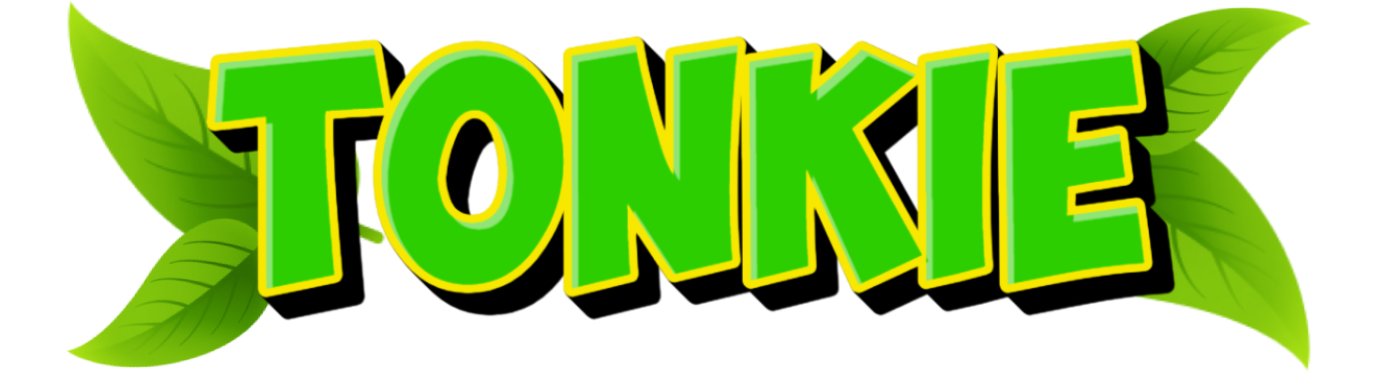
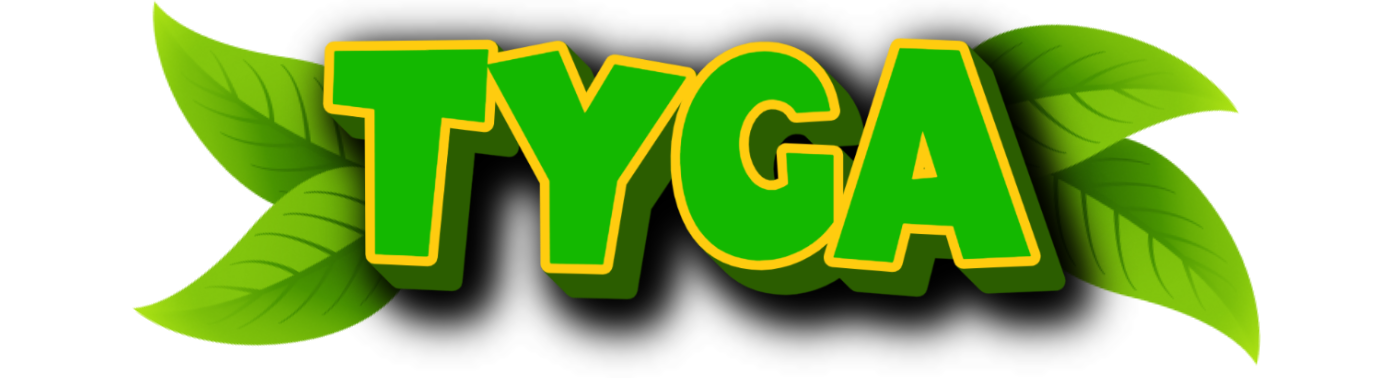
1

diff --git a/index.html b/index.html
@@ -1,10 +1,10 @@
-<!DOCTYPE html><!-- This site was created in Webflow. https://webflow.com --><!-- Last Published: Mon Oct 21 2024 19:35:50 GMT+0000 (Coordinated Universal Time) --><html data-wf-domain="www.tonkeonsol.com" data-wf-page="67128392ef8c413a4ef1b844" data-wf-site="67128392ef8c413a4ef1b76d"><head><meta charset="utf-8"/><title>TONKIE</title><meta content="width=device-width, initial-scale=1" name="viewport"/><meta content="Webflow" name="generator"/><link href="./cdn.prod.website-files.com/67128392ef8c413a4ef1b76d/css/tonke.webflow.ebf8300d1.css" rel="stylesheet" type="text/css"/><link href="https://fonts.googleapis.com" rel="preconnect"/><link href="https://fonts.gstatic.com" rel="preconnect" crossorigin="anonymous"/><script src="https://ajax.googleapis.com/ajax/libs/webfont/1.6.26/webfont.js" type="text/javascript"></script><script type="text/javascript">WebFont.load({  google: {    families: ["Montserrat:100,100italic,200,200italic,300,300italic,400,400italic,500,500italic,600,600italic,700,700italic,800,800italic,900,900italic"]  }});</script><script type="text/javascript">!function(o,c){var n=c.documentElement,t=" w-mod-";n.className+=t+"js",("ontouchstart"in o||o.DocumentTouch&&c instanceof DocumentTouch)&&(n.className+=t+"touch")}(window,document);</script><link href="./cdn.prod.website-files.com/67128392ef8c413a4ef1b76d/6712abf060771e511181c04e_pp%2032.png" rel="shortcut icon" type="image/x-icon"/><link href="./cdn.prod.website-files.com/67128392ef8c413a4ef1b76d/6712abf347a508f72a8bac3a_PP%20256.png" rel="apple-touch-icon"/></head><body class="body"><div class="waiting-screen"><div class="w-embed w-script"><!-- Google Tag Manager -->
+<!DOCTYPE html><!-- This site was created in Webflow. https://webflow.com --><!-- Last Published: Mon Oct 21 2024 19:35:50 GMT+0000 (Coordinated Universal Time) --><html data-wf-domain="www.tonkeonsol.com" data-wf-page="67128392ef8c413a4ef1b844" data-wf-site="67128392ef8c413a4ef1b76d"><head><meta charset="utf-8"/><title>TYGA</title><meta content="width=device-width, initial-scale=1" name="viewport"/><meta content="Webflow" name="generator"/><link href="./cdn.prod.website-files.com/67128392ef8c413a4ef1b76d/css/tonke.webflow.ebf8300d1.css" rel="stylesheet" type="text/css"/><link href="https://fonts.googleapis.com" rel="preconnect"/><link href="https://fonts.gstatic.com" rel="preconnect" crossorigin="anonymous"/><script src="https://ajax.googleapis.com/ajax/libs/webfont/1.6.26/webfont.js" type="text/javascript"></script><script type="text/javascript">WebFont.load({  google: {    families: ["Montserrat:100,100italic,200,200italic,300,300italic,400,400italic,500,500italic,600,600italic,700,700italic,800,800italic,900,900italic"]  }});</script><script type="text/javascript">!function(o,c){var n=c.documentElement,t=" w-mod-";n.className+=t+"js",("ontouchstart"in o||o.DocumentTouch&&c instanceof DocumentTouch)&&(n.className+=t+"touch")}(window,document);</script><link href="./cdn.prod.website-files.com/67128392ef8c413a4ef1b76d/6712abf060771e511181c04e_pp%2032.png" rel="shortcut icon" type="image/x-icon"/><link href="./cdn.prod.website-files.com/67128392ef8c413a4ef1b76d/6712abf347a508f72a8bac3a_PP%20256.png" rel="apple-touch-icon"/></head><body class="body"><div class="waiting-screen"><div class="w-embed w-script"><!-- Google Tag Manager -->
 <script>(function(w,d,s,l,i){w[l]=w[l]||[];w[l].push({'gtm.start':
 new Date().getTime(),event:'gtm.js'});var f=d.getElementsByTagName(s)[0],
 j=d.createElement(s),dl=l!='dataLayer'?'&l='+l:'';j.async=true;j.src=
 'https://www.googletagmanager.com/gtm.js?id='+i+dl;f.parentNode.insertBefore(j,f);
 })(window,document,'script','dataLayer','GTM-58B744DV');</script>
-<!-- End Google Tag Manager --></div><img src="./cdn.prod.website-files.com/67128392ef8c413a4ef1b76d/67128dde0ad5a9be48e4c517_Group.png" loading="lazy" sizes="100vw" srcset="./cdn.prod.website-files.com/67128392ef8c413a4ef1b76d/67128dde0ad5a9be48e4c517_Group-p-500.png 500w, ./cdn.prod.website-files.com/67128392ef8c413a4ef1b76d/67128dde0ad5a9be48e4c517_Group-p-800.png 800w, ./cdn.prod.website-files.com/67128392ef8c413a4ef1b76d/67128dde0ad5a9be48e4c517_Group-p-1080.png 1080w, ./cdn.prod.website-files.com/67128392ef8c413a4ef1b76d/67128dde0ad5a9be48e4c517_Group.png 1558w" alt="" class="image"/></div><section class="header"><div class="bg1"><div class="header_wrapper"><img src="./cdn.prod.website-files.com/67128392ef8c413a4ef1b76d/6712b9009a8c00e3f39acca3_Group-1.png" loading="lazy" sizes="100vw"  alt="website logo of TONKIE" class="tonke"/><div class="spacer_header"></div><div class="content_header"><div class="columns-2 w-row"><div class="column-3 w-col w-col-4 w-col-small-4 w-col-tiny-4"><a data-w-id="741809d0-b635-7096-3bc5-0bb581f58a18" href="https://x.com/tonkieclub" target="_blank" class="sm w-inline-block"><img loading="lazy" src="./cdn.prod.website-files.com/67128392ef8c413a4ef1b76d/6713a4ea562ebcbc3bb6f182_tg.png" alt="telegram of tonke" class="jeton_rs"/></a></div><div class="column-3 w-col w-col-4 w-col-small-4 w-col-tiny-4"><a data-w-id="741809d0-b635-7096-3bc5-0bb581f58a1b" href="https://pump.fun/iV7YmyaNFcPMD1P73oPAh9HrXt2wm2By4AoKuuMpump" target="_blank" class="sm w-inline-block"><img loading="lazy" src="./cdn.prod.website-files.com/67128392ef8c413a4ef1b76d/6713a4eac877c6b4521e17d2_dex.png" alt="dexscreen of tonke" class="jeton_rs"/></a></div><div class="column-3 w-col w-col-4 w-col-small-4 w-col-tiny-4"><a data-w-id="741809d0-b635-7096-3bc5-0bb581f58a1e" href="https://t.me/tonkieclub" target="_blank" class="sm w-inline-block"><img loading="lazy" src="./cdn.prod.website-files.com/67128392ef8c413a4ef1b76d/6713a4ea328c0c99c5d10f2e_X.png" alt="X of tonke" class="jeton_rs"/></a></div></div></div></div><div class="div-block"><div class="columns w-row"><div class="column w-col w-col-7"><img src="./cdn.prod.website-files.com/67128392ef8c413a4ef1b76d/6712b9003b32411f2f953f42_Rectangle.png" loading="lazy" sizes="100vw" srcset="./cdn.prod.website-files.com/67128392ef8c413a4ef1b76d/6712b9003b32411f2f953f42_Rectangle-p-500.png 500w, ./cdn.prod.website-files.com/67128392ef8c413a4ef1b76d/6712b9003b32411f2f953f42_Rectangle-p-800.png 800w, ./cdn.prod.website-files.com/67128392ef8c413a4ef1b76d/6712b9003b32411f2f953f42_Rectangle-p-1080.png 1080w, ./cdn.prod.website-files.com/67128392ef8c413a4ef1b76d/6712b9003b32411f2f953f42_Rectangle.png 1280w" alt="" class="image-2"/></div><div class="column-2 w-col w-col-5"><div class="whostonk"><h1 class="titre_white">WHO&#x27;S TONKIE</h1><p class="text_white">Meet $TONKIE, the fearless jungle cat who is a warrior from the heart! Known for his legendary boxing skills and quick paws, $TONKIE is boxing coach of the BOY&#x27;S CLUB. With a wild mane and a fiery attitude, he&#x27;s always ready to throw down and protect his memecoin. $TONKIE may have a short fuse, but he’s got big plans to punch through the peaks of Solana! Come join $TONKIE as he claws his way to the top of the Solana chain, one fierce green swipe at a time!</p></div><div class="spacer_whostonke"></div></div></div></div></div></section><section class="header_v2"><div class="div-block-3"><div class="header_wrapper"><a href="#" class="link-block w-inline-block"><img src="./cdn.prod.website-files.com/67128392ef8c413a4ef1b76d/6712b9009a8c00e3f39acca3_Group-1.png" loading="lazy" data-w-id="52d00584-be5c-c584-a831-a4f491bdb8b1" sizes="70vw" alt="website logo of TONKIE"  class="tonke"/></a><div class="spacer_header"><p class="text_white-2 ca">CA : iV7YmyaNFcPMD1P73oPAh9HrXt2wm2By4AoKuuMpump</p></div><div class="content_header"><div class="columns-2 w-row"><div class="column-3 w-col w-col-4 w-col-small-4 w-col-tiny-4"><a data-w-id="52d00584-be5c-c584-a831-a4f491bdb8b6" href="https://t.me/tonkieclub" target="_blank" class="sm w-inline-block"><img loading="lazy" src="./cdn.prod.website-files.com/67128392ef8c413a4ef1b76d/6713a4ea562ebcbc3bb6f182_tg.png" alt="telegram of tonke" class="jeton_rs"/></a></div><div class="column-3 w-col w-col-4 w-col-small-4 w-col-tiny-4"><a data-w-id="52d00584-be5c-c584-a831-a4f491bdb8b9" href="https://pump.fun/iV7YmyaNFcPMD1P73oPAh9HrXt2wm2By4AoKuuMpump" target="_blank" class="sm w-inline-block"><img loading="lazy" src="./cdn.prod.website-files.com/67128392ef8c413a4ef1b76d/6713a4eac877c6b4521e17d2_dex.png" alt="dexscreen of tonke" class="jeton_rs"/></a></div><div class="column-3 w-col w-col-4 w-col-small-4 w-col-tiny-4"><a data-w-id="52d00584-be5c-c584-a831-a4f491bdb8bc" href="https://x.com/tonkieclub" target="_blank" class="sm w-inline-block"><img loading="lazy" src="./cdn.prod.website-files.com/67128392ef8c413a4ef1b76d/6713a4ea328c0c99c5d10f2e_X.png" alt="X of tonke" class="jeton_rs"/></a></div></div></div><div class="code-embed w-embed"><style>
+<!-- End Google Tag Manager --></div><img src="./cdn.prod.website-files.com/67128392ef8c413a4ef1b76d/67128dde0ad5a9be48e4c517_Group.png" loading="lazy" sizes="100vw" srcset="./cdn.prod.website-files.com/67128392ef8c413a4ef1b76d/67128dde0ad5a9be48e4c517_Group-p-500.png 500w, ./cdn.prod.website-files.com/67128392ef8c413a4ef1b76d/67128dde0ad5a9be48e4c517_Group-p-800.png 800w, ./cdn.prod.website-files.com/67128392ef8c413a4ef1b76d/67128dde0ad5a9be48e4c517_Group-p-1080.png 1080w, ./cdn.prod.website-files.com/67128392ef8c413a4ef1b76d/67128dde0ad5a9be48e4c517_Group.png 1558w" alt="" class="image"/></div><section class="header"><div class="bg1"><div class="header_wrapper"><img src="./cdn.prod.website-files.com/67128392ef8c413a4ef1b76d/6712b9009a8c00e3f39acca3_Group-1.png" loading="lazy" sizes="100vw"  alt="website logo of TYGA" class="tonke"/><div class="spacer_header"></div><div class="content_header"><div class="columns-2 w-row"><div class="column-3 w-col w-col-4 w-col-small-4 w-col-tiny-4"><a data-w-id="741809d0-b635-7096-3bc5-0bb581f58a18" href="https://x.com/tygaclub" target="_blank" class="sm w-inline-block"><img loading="lazy" src="./cdn.prod.website-files.com/67128392ef8c413a4ef1b76d/6713a4ea562ebcbc3bb6f182_tg.png" alt="telegram of tonke" class="jeton_rs"/></a></div><div class="column-3 w-col w-col-4 w-col-small-4 w-col-tiny-4"><a data-w-id="741809d0-b635-7096-3bc5-0bb581f58a1b" href="https://pump.fun/xKvF1hN8GYvDAkmWdpCbLnghYJXXWp7P39xQN5epump" target="_blank" class="sm w-inline-block"><img loading="lazy" src="./cdn.prod.website-files.com/67128392ef8c413a4ef1b76d/6713a4eac877c6b4521e17d2_dex.png" alt="dexscreen of tonke" class="jeton_rs"/></a></div><div class="column-3 w-col w-col-4 w-col-small-4 w-col-tiny-4"><a data-w-id="741809d0-b635-7096-3bc5-0bb581f58a1e" href="https://t.me/tygaclub" target="_blank" class="sm w-inline-block"><img loading="lazy" src="./cdn.prod.website-files.com/67128392ef8c413a4ef1b76d/6713a4ea328c0c99c5d10f2e_X.png" alt="X of tonke" class="jeton_rs"/></a></div></div></div></div><div class="div-block"><div class="columns w-row"><div class="column w-col w-col-7"><img src="./cdn.prod.website-files.com/67128392ef8c413a4ef1b76d/6712b9003b32411f2f953f42_Rectangle.png" loading="lazy" sizes="100vw" srcset="./cdn.prod.website-files.com/67128392ef8c413a4ef1b76d/6712b9003b32411f2f953f42_Rectangle-p-500.png 500w, ./cdn.prod.website-files.com/67128392ef8c413a4ef1b76d/6712b9003b32411f2f953f42_Rectangle-p-800.png 800w, ./cdn.prod.website-files.com/67128392ef8c413a4ef1b76d/6712b9003b32411f2f953f42_Rectangle-p-1080.png 1080w, ./cdn.prod.website-files.com/67128392ef8c413a4ef1b76d/6712b9003b32411f2f953f42_Rectangle.png 1280w" alt="" class="image-2"/></div><div class="column-2 w-col w-col-5"><div class="whostonk"><h1 class="titre_white">WHO&#x27;S TYGA</h1><p class="text_white">Meet $TYGA, the fearless jungle cat who is a warrior from the heart! Known for his legendary boxing skills and quick paws, $TYGA is boxing coach of the BOY&#x27;S CLUB. With a wild mane and a fiery attitude, he&#x27;s always ready to throw down and protect his memecoin. $TYGA may have a short fuse, but he’s got big plans to punch through the peaks of Solana! Come join $TYGA as he claws his way to the top of the Solana chain, one fierce green swipe at a time!</p></div><div class="spacer_whostonke"></div></div></div></div></div></section><section class="header_v2"><div class="div-block-3"><div class="header_wrapper"><a href="#" class="link-block w-inline-block"><img src="./cdn.prod.website-files.com/67128392ef8c413a4ef1b76d/6712b9009a8c00e3f39acca3_Group-1.png" loading="lazy" data-w-id="52d00584-be5c-c584-a831-a4f491bdb8b1" sizes="70vw" alt="website logo of TYGA"  class="tonke"/></a><div class="spacer_header"><p class="text_white-2 ca">CA : xKvF1hN8GYvDAkmWdpCbLnghYJXXWp7P39xQN5epump</p></div><div class="content_header"><div class="columns-2 w-row"><div class="column-3 w-col w-col-4 w-col-small-4 w-col-tiny-4"><a data-w-id="52d00584-be5c-c584-a831-a4f491bdb8b6" href="https://t.me/tygaclub" target="_blank" class="sm w-inline-block"><img loading="lazy" src="./cdn.prod.website-files.com/67128392ef8c413a4ef1b76d/6713a4ea562ebcbc3bb6f182_tg.png" alt="telegram of tonke" class="jeton_rs"/></a></div><div class="column-3 w-col w-col-4 w-col-small-4 w-col-tiny-4"><a data-w-id="52d00584-be5c-c584-a831-a4f491bdb8b9" href="https://pump.fun/xKvF1hN8GYvDAkmWdpCbLnghYJXXWp7P39xQN5epump" target="_blank" class="sm w-inline-block"><img loading="lazy" src="./cdn.prod.website-files.com/67128392ef8c413a4ef1b76d/6713a4eac877c6b4521e17d2_dex.png" alt="dexscreen of tonke" class="jeton_rs"/></a></div><div class="column-3 w-col w-col-4 w-col-small-4 w-col-tiny-4"><a data-w-id="52d00584-be5c-c584-a831-a4f491bdb8bc" href="https://x.com/tygaclub" target="_blank" class="sm w-inline-block"><img loading="lazy" src="./cdn.prod.website-files.com/67128392ef8c413a4ef1b76d/6713a4ea328c0c99c5d10f2e_X.png" alt="X of tonke" class="jeton_rs"/></a></div></div></div><div class="code-embed w-embed"><style>
 <style>
 .SM { 
     position: relative;
@@ -58,7 +58,7 @@ j=d.createElement(s),dl=l!='dataLayer'?'&l='+l:'';j.async=true;j.src=
 .SM:hover::after {
     transform: translate(200px, -50%); /* Feuille part vers la droite */
 }
-</style></div></div></div></section><section class="rbc"><div class="bg2"><div class="wrapper_rbc"><img src="./cdn.prod.website-files.com/67128392ef8c413a4ef1b76d/6712b900a202e4efa25d8fda_real%20boyz%20club.png" loading="lazy" sizes="100vw" srcset="./cdn.prod.website-files.com/67128392ef8c413a4ef1b76d/6712b900a202e4efa25d8fda_real%20boyz%20club-p-500.png 500w, ./cdn.prod.website-files.com/67128392ef8c413a4ef1b76d/6712b900a202e4efa25d8fda_real%20boyz%20club-p-800.png 800w, ./cdn.prod.website-files.com/67128392ef8c413a4ef1b76d/6712b900a202e4efa25d8fda_real%20boyz%20club-p-1080.png 1080w, ./cdn.prod.website-files.com/67128392ef8c413a4ef1b76d/6712b900a202e4efa25d8fda_real%20boyz%20club-p-1600.png 1600w, ./cdn.prod.website-files.com/67128392ef8c413a4ef1b76d/6712b900a202e4efa25d8fda_real%20boyz%20club-p-2000.png 2000w, ./cdn.prod.website-files.com/67128392ef8c413a4ef1b76d/6712b900a202e4efa25d8fda_real%20boyz%20club.png 2184w" alt="" class="rbc_title"/><img src="./cdn.prod.website-files.com/67128392ef8c413a4ef1b76d/6712b9000797b645d004740e_Rectangle-4.png" loading="lazy" sizes="100vw" srcset="./cdn.prod.website-files.com/67128392ef8c413a4ef1b76d/6712b9000797b645d004740e_Rectangle-4-p-500.png 500w, ./cdn.prod.website-files.com/67128392ef8c413a4ef1b76d/6712b9000797b645d004740e_Rectangle-4-p-800.png 800w, ./cdn.prod.website-files.com/67128392ef8c413a4ef1b76d/6712b9000797b645d004740e_Rectangle-4-p-1080.png 1080w, ./cdn.prod.website-files.com/67128392ef8c413a4ef1b76d/6712b9000797b645d004740e_Rectangle-4.png 1592w" alt="" class="image-3"/></div></div></section><section class="roadmap"><div class="bg2 bg3"><div class="wrapper_roadmap"><div class="div-block-2"><div class="columns-3 w-row"><div class="column-4 w-col w-col-6 w-col-medium-6 w-col-small-6 w-col-tiny-tiny-stack"><div data-delay="4000" data-animation="slide" class="slider-2 w-slider" data-autoplay="false" data-easing="ease" data-hide-arrows="true" data-disable-swipe="false" data-autoplay-limit="0" data-nav-spacing="200" data-duration="500" data-infinite="false"><div class="mask-2 w-slider-mask"><div class="slide-2 w-slide"><div class="slider_wrapper"><div class="content_slider"><h1 class="titre_white">STEP 1</h1><div class="spacer_roadmap"></div><p class="text_white">- Launch on PumpFun &amp; optimize socials/website <br/><br/>- Develop content creation video collage <br/><br/>- Accumulate 100 holders &amp; strong community<br/><br/>- Pay DEX &amp; live Q/A with developers</p></div></div></div><div class="slide-4 w-slide"><div class="slider_wrapper"><div class="content_slider"><h1 class="titre_white">STEP 2</h1><div class="spacer_roadmap"></div><p class="text_white">- Continue content creation &amp; social media developments <br/><br/>- Apply for CMC &amp; CG listing<br/><br/>- Accumulate 300 holders &amp; CHAD community<br/><br/>- First animation &amp; live Q/A with developers</p></div></div></div><div class="slide-3 w-slide"><div class="slider_wrapper"><div class="content_slider"><h1 class="titre_white">STEP 3</h1><div class="spacer_roadmap"></div><p class="text_white">- Deploy AD campaigns &amp; influencer promotions<br/><br/>- Weekly animation content for socials &amp; adopt a TIGER<br/><br/>- Accumulate 1000 holders &amp; GIGA CHAD TONKIE community<br/><br/>- Apply for CEX listings</p></div></div></div></div><div class="right-arrow-2 w-slider-arrow-left"><img data-w-id="4653d80f-87c1-8b2d-26ee-2b5cf3c6ef68" loading="lazy" alt="" src="./cdn.prod.website-files.com/67128392ef8c413a4ef1b76d/6713a443f404cf47157c84ea_bouton%20slider%20gauche.png" class="image-9"/></div><div class="right-arrow-2 w-slider-arrow-right"><img data-w-id="4653d80f-87c1-8b2d-26ee-2b5cf3c6ef6a" loading="lazy" alt="" src="./cdn.prod.website-files.com/67128392ef8c413a4ef1b76d/6713a1af9ba04f04d7d094c4_bouton%20slider.png" class="image-5"/></div><div class="slide-nav-2 w-slider-nav w-round w-num"></div></div><div class="spacer_roadmap2"></div></div><div class="column-5 w-col w-col-6 w-col-medium-6 w-col-small-6 w-col-tiny-tiny-stack"><img src="./cdn.prod.website-files.com/67128392ef8c413a4ef1b76d/6712b900790e0aad20a719e2_Rectangle-3.png" loading="lazy" sizes="100vw" srcset="./cdn.prod.website-files.com/67128392ef8c413a4ef1b76d/6712b900790e0aad20a719e2_Rectangle-3-p-500.png 500w, ./cdn.prod.website-files.com/67128392ef8c413a4ef1b76d/6712b900790e0aad20a719e2_Rectangle-3-p-800.png 800w, ./cdn.prod.website-files.com/67128392ef8c413a4ef1b76d/6712b900790e0aad20a719e2_Rectangle-3.png 939w" alt="" class="image-10"/></div></div></div><img src="./cdn.prod.website-files.com/67128392ef8c413a4ef1b76d/67140b1d5a1b5e5c06c6218d_buisson%20encore%20encore.png" loading="lazy" sizes="100vw" srcset="./cdn.prod.website-files.com/67128392ef8c413a4ef1b76d/67140b1d5a1b5e5c06c6218d_buisson%20encore%20encore-p-500.png 500w, ./cdn.prod.website-files.com/67128392ef8c413a4ef1b76d/67140b1d5a1b5e5c06c6218d_buisson%20encore%20encore-p-800.png 800w, ./cdn.prod.website-files.com/67128392ef8c413a4ef1b76d/67140b1d5a1b5e5c06c6218d_buisson%20encore%20encore-p-1080.png 1080w, ./cdn.prod.website-files.com/67128392ef8c413a4ef1b76d/67140b1d5a1b5e5c06c6218d_buisson%20encore%20encore-p-1600.png 1600w, ./cdn.prod.website-files.com/67128392ef8c413a4ef1b76d/67140b1d5a1b5e5c06c6218d_buisson%20encore%20encore.png 1920w" alt="" class="image-11"/></div></div></section><section class="roadmap-copy"><div class="bg2 bg3"><div class="wrapper_roadmap"><div class="div-block-2"><div class="columns-3 w-row"><div class="column-4 w-col w-col-6 w-col-medium-6 w-col-small-6 w-col-tiny-tiny-stack"><div data-delay="4000" data-animation="slide" class="slider-5 w-slider" data-autoplay="false" data-easing="ease" data-hide-arrows="true" data-disable-swipe="false" data-autoplay-limit="0" data-nav-spacing="3" data-duration="500" data-infinite="true"><div class="w-slider-mask"><div class="slide-10 w-slide"><div class="div-block-4"><h1 class="titre_white">STEP 1</h1><div class="spacer_roadmap"></div><p class="text_white">- Launch on PumpFun &amp; optimize socials/website <br/><br/>- Develop content creation video collage <br/><br/>- Accumulate 100 holders &amp; strong community<br/><br/>- Pay DEX &amp; live Q/A with developers</p></div></div><div class="w-slide"><div class="div-block-4"><h1 class="titre_white">STEP 2</h1><p class="text_white">- Continue content creation &amp; social media developments <br/><br/>- Apply for CMC &amp; CG listing<br/><br/>- Accumulate 300 holders &amp; CHAD community<br/><br/>- First animation &amp; live Q/A with developers</p></div></div><div class="w-slide"><div class="div-block-4"><h1 class="titre_white">STEP 3</h1><p class="text_white">- Deploy AD campaigns &amp; influencer promotions<br/><br/>- Weekly animation content for socials &amp; adopt a TIGER<br/><br/>- Accumulate 1000 holders &amp; GIGA CHAD TONKIE community<br/><br/>- Apply for CEX listings</p></div></div></div><div class="right-arrow-2 w-slider-arrow-left"><img data-w-id="6df77f33-77c0-d7a4-5734-622ddd59864d" loading="lazy" alt="" src="./cdn.prod.website-files.com/67128392ef8c413a4ef1b76d/6713a443f404cf47157c84ea_bouton%20slider%20gauche.png" class="image-9"/></div><div class="right-arrow-2 w-slider-arrow-right"><img data-w-id="116bcdf6-cb2e-99dd-cd70-0781470c361b" loading="lazy" alt="" src="./cdn.prod.website-files.com/67128392ef8c413a4ef1b76d/6713a1af9ba04f04d7d094c4_bouton%20slider.png" class="image-5"/></div><div class="slide-nav-3 w-slider-nav w-round w-num"></div></div><div class="spacer_roadmap2"></div></div><div class="column-5 w-col w-col-6 w-col-medium-6 w-col-small-6 w-col-tiny-tiny-stack"><img src="./cdn.prod.website-files.com/67128392ef8c413a4ef1b76d/6712b900790e0aad20a719e2_Rectangle-3.png" loading="lazy" sizes="(max-width: 479px) 100vw, (max-width: 767px) 331.6000061035156px, (max-width: 991px) 44vw, (max-width: 1279px) 42vw, 43vw" srcset="./cdn.prod.website-files.com/67128392ef8c413a4ef1b76d/6712b900790e0aad20a719e2_Rectangle-3-p-500.png 500w, ./cdn.prod.website-files.com/67128392ef8c413a4ef1b76d/6712b900790e0aad20a719e2_Rectangle-3-p-800.png 800w, ./cdn.prod.website-files.com/67128392ef8c413a4ef1b76d/6712b900790e0aad20a719e2_Rectangle-3.png 939w" alt="" class="image-10"/></div></div></div><img src="./cdn.prod.website-files.com/67128392ef8c413a4ef1b76d/67140b1d5a1b5e5c06c6218d_buisson%20encore%20encore.png" loading="lazy" sizes="100vw" srcset="./cdn.prod.website-files.com/67128392ef8c413a4ef1b76d/67140b1d5a1b5e5c06c6218d_buisson%20encore%20encore-p-500.png 500w, ./cdn.prod.website-files.com/67128392ef8c413a4ef1b76d/67140b1d5a1b5e5c06c6218d_buisson%20encore%20encore-p-800.png 800w, ./cdn.prod.website-files.com/67128392ef8c413a4ef1b76d/67140b1d5a1b5e5c06c6218d_buisson%20encore%20encore-p-1080.png 1080w, ./cdn.prod.website-files.com/67128392ef8c413a4ef1b76d/67140b1d5a1b5e5c06c6218d_buisson%20encore%20encore-p-1600.png 1600w, ./cdn.prod.website-files.com/67128392ef8c413a4ef1b76d/67140b1d5a1b5e5c06c6218d_buisson%20encore%20encore.png 1920w" alt="" class="image-11"/></div></div></section><section class="roadmap-phone"><div class="bg_roadmap_phone"><div class="roadmap_phone_wrapper"><img src="./cdn.prod.website-files.com/67128392ef8c413a4ef1b76d/671412deebfffef68dcc95a9_tigre%2Bbuissons.png" loading="lazy" sizes="100vw" srcset="./cdn.prod.website-files.com/67128392ef8c413a4ef1b76d/671412deebfffef68dcc95a9_tigre%2Bbuissons-p-500.png 500w, ./cdn.prod.website-files.com/67128392ef8c413a4ef1b76d/671412deebfffef68dcc95a9_tigre%2Bbuissons-p-800.png 800w, ./cdn.prod.website-files.com/67128392ef8c413a4ef1b76d/671412deebfffef68dcc95a9_tigre%2Bbuissons-p-1080.png 1080w, ./cdn.prod.website-files.com/67128392ef8c413a4ef1b76d/671412deebfffef68dcc95a9_tigre%2Bbuissons.png 1297w" alt="" class="tigre_phone"/><div data-delay="4000" data-animation="slide" class="slider-2 w-slider" data-autoplay="false" data-easing="ease" data-hide-arrows="true" data-disable-swipe="false" data-autoplay-limit="0" data-nav-spacing="200" data-duration="500" data-infinite="false"><div class="mask-2 w-slider-mask"><div class="slide-2 w-slide"><div class="slider_wrapper"><div class="content_slider"><h1 class="titre_white">STEP 1</h1><div class="spacer_roadmap"></div><p class="text_white">- Launch on PumpFun &amp; optimize socials/website <br/><br/>- Develop content creation video collage <br/><br/>- Accumulate 100 holders &amp; strong community<br/><br/>- Pay DEX &amp; live Q/A with developers</p></div></div></div><div class="slide-4 w-slide"><div class="slider_wrapper"><div class="content_slider"><h1 class="titre_white">STEP 2</h1><div class="spacer_roadmap"></div><p class="text_white">- Continue content creation &amp; social media developments <br/><br/>- Apply for CMC &amp; CG listing<br/><br/>- Accumulate 300 holders &amp; CHAD community<br/><br/>- First animation &amp; live Q/A with developers</p></div></div></div><div class="slide-3 w-slide"><div class="slider_wrapper"><div class="content_slider"><h1 class="titre_white">STEP 3</h1><div class="spacer_roadmap"></div><p class="text_white">- Deploy AD campaigns &amp; influencer promotions<br/><br/>- Weekly animation content for socials &amp; adopt a TIGER<br/><br/>- Accumulate 1000 holders &amp; GIGA CHAD TONKIE community<br/><br/>- Apply for CEX listings</p></div></div></div></div><div class="right-arrow-2 w-slider-arrow-left"><img data-w-id="82fa5e30-a3e7-4d81-45c4-95128d05b247" loading="lazy" alt="" src="./cdn.prod.website-files.com/67128392ef8c413a4ef1b76d/6713a443f404cf47157c84ea_bouton%20slider%20gauche.png" class="image-9"/></div><div class="right-arrow-2 w-slider-arrow-right"><img data-w-id="82fa5e30-a3e7-4d81-45c4-95128d05b249" loading="lazy" alt="" src="./cdn.prod.website-files.com/67128392ef8c413a4ef1b76d/6713a1af9ba04f04d7d094c4_bouton%20slider.png" class="image-5"/></div><div class="slide-nav-2 w-slider-nav w-round w-num"></div></div><img src="./cdn.prod.website-files.com/67128392ef8c413a4ef1b76d/67140b1d5a1b5e5c06c6218d_buisson%20encore%20encore.png" loading="lazy" sizes="100vw" srcset="./cdn.prod.website-files.com/67128392ef8c413a4ef1b76d/67140b1d5a1b5e5c06c6218d_buisson%20encore%20encore-p-500.png 500w, ./cdn.prod.website-files.com/67128392ef8c413a4ef1b76d/67140b1d5a1b5e5c06c6218d_buisson%20encore%20encore-p-800.png 800w, ./cdn.prod.website-files.com/67128392ef8c413a4ef1b76d/67140b1d5a1b5e5c06c6218d_buisson%20encore%20encore-p-1080.png 1080w, ./cdn.prod.website-files.com/67128392ef8c413a4ef1b76d/67140b1d5a1b5e5c06c6218d_buisson%20encore%20encore-p-1600.png 1600w, ./cdn.prod.website-files.com/67128392ef8c413a4ef1b76d/67140b1d5a1b5e5c06c6218d_buisson%20encore%20encore.png 1920w" alt="" class="image-14"/></div></div></section><section class="ghoj"><div class="bg4"></div></section><section class="tokenomics"><div class="bg5"><div class="tokenomics-content"><h1 class="heading">TONKIENOMICS</h1><div class="spacer_tokenomics"></div><img src="./cdn.prod.website-files.com/67128392ef8c413a4ef1b76d/6713bc3ea5b3f6417b0ab1f1_tokenomics%20list.png" loading="lazy" data-w-id="aa31c0c7-e419-2f85-bfad-009f56eff400" sizes="(max-width: 1919px) 60vw, 1084px" alt="" srcset="./cdn.prod.website-files.com/67128392ef8c413a4ef1b76d/6713bc3ea5b3f6417b0ab1f1_tokenomics%20list-p-500.png 500w, ./cdn.prod.website-files.com/67128392ef8c413a4ef1b76d/6713bc3ea5b3f6417b0ab1f1_tokenomics%20list-p-800.png 800w, ./cdn.prod.website-files.com/67128392ef8c413a4ef1b76d/6713bc3ea5b3f6417b0ab1f1_tokenomics%20list-p-1080.png 1080w, ./cdn.prod.website-files.com/67128392ef8c413a4ef1b76d/6713bc3ea5b3f6417b0ab1f1_tokenomics%20list.png 1084w" class="image-12"/></div></div></section><section class="htb"><div class="htb_wrapper"><img src="./cdn.prod.website-files.com/67128392ef8c413a4ef1b76d/671418d5e6f594839d014948_HTB.png" loading="lazy" sizes="(max-width: 479px) 95vw, (max-width: 767px) 90vw, (max-width: 1919px) 80vw, 1261px" srcset="./cdn.prod.website-files.com/67128392ef8c413a4ef1b76d/671418d5e6f594839d014948_HTB-p-500.png 500w, ./cdn.prod.website-files.com/67128392ef8c413a4ef1b76d/671418d5e6f594839d014948_HTB-p-800.png 800w, ./cdn.prod.website-files.com/67128392ef8c413a4ef1b76d/671418d5e6f594839d014948_HTB.png 1261w" alt="" class="image-13"/></div></section><div class="w-embed"><style>
+</style></div></div></div></section><section class="rbc"><div class="bg2"><div class="wrapper_rbc"><img src="./cdn.prod.website-files.com/67128392ef8c413a4ef1b76d/6712b900a202e4efa25d8fda_real%20boyz%20club.png" loading="lazy" sizes="100vw" srcset="./cdn.prod.website-files.com/67128392ef8c413a4ef1b76d/6712b900a202e4efa25d8fda_real%20boyz%20club-p-500.png 500w, ./cdn.prod.website-files.com/67128392ef8c413a4ef1b76d/6712b900a202e4efa25d8fda_real%20boyz%20club-p-800.png 800w, ./cdn.prod.website-files.com/67128392ef8c413a4ef1b76d/6712b900a202e4efa25d8fda_real%20boyz%20club-p-1080.png 1080w, ./cdn.prod.website-files.com/67128392ef8c413a4ef1b76d/6712b900a202e4efa25d8fda_real%20boyz%20club-p-1600.png 1600w, ./cdn.prod.website-files.com/67128392ef8c413a4ef1b76d/6712b900a202e4efa25d8fda_real%20boyz%20club-p-2000.png 2000w, ./cdn.prod.website-files.com/67128392ef8c413a4ef1b76d/6712b900a202e4efa25d8fda_real%20boyz%20club.png 2184w" alt="" class="rbc_title"/><img src="./cdn.prod.website-files.com/67128392ef8c413a4ef1b76d/6712b9000797b645d004740e_Rectangle-4.png" loading="lazy" sizes="100vw" srcset="./cdn.prod.website-files.com/67128392ef8c413a4ef1b76d/6712b9000797b645d004740e_Rectangle-4-p-500.png 500w, ./cdn.prod.website-files.com/67128392ef8c413a4ef1b76d/6712b9000797b645d004740e_Rectangle-4-p-800.png 800w, ./cdn.prod.website-files.com/67128392ef8c413a4ef1b76d/6712b9000797b645d004740e_Rectangle-4-p-1080.png 1080w, ./cdn.prod.website-files.com/67128392ef8c413a4ef1b76d/6712b9000797b645d004740e_Rectangle-4.png 1592w" alt="" class="image-3"/></div></div></section><section class="roadmap"><div class="bg2 bg3"><div class="wrapper_roadmap"><div class="div-block-2"><div class="columns-3 w-row"><div class="column-4 w-col w-col-6 w-col-medium-6 w-col-small-6 w-col-tiny-tiny-stack"><div data-delay="4000" data-animation="slide" class="slider-2 w-slider" data-autoplay="false" data-easing="ease" data-hide-arrows="true" data-disable-swipe="false" data-autoplay-limit="0" data-nav-spacing="200" data-duration="500" data-infinite="false"><div class="mask-2 w-slider-mask"><div class="slide-2 w-slide"><div class="slider_wrapper"><div class="content_slider"><h1 class="titre_white">STEP 1</h1><div class="spacer_roadmap"></div><p class="text_white">- Launch on PumpFun &amp; optimize socials/website <br/><br/>- Develop content creation video collage <br/><br/>- Accumulate 100 holders &amp; strong community<br/><br/>- Pay DEX &amp; live Q/A with developers</p></div></div></div><div class="slide-4 w-slide"><div class="slider_wrapper"><div class="content_slider"><h1 class="titre_white">STEP 2</h1><div class="spacer_roadmap"></div><p class="text_white">- Continue content creation &amp; social media developments <br/><br/>- Apply for CMC &amp; CG listing<br/><br/>- Accumulate 300 holders &amp; CHAD community<br/><br/>- First animation &amp; live Q/A with developers</p></div></div></div><div class="slide-3 w-slide"><div class="slider_wrapper"><div class="content_slider"><h1 class="titre_white">STEP 3</h1><div class="spacer_roadmap"></div><p class="text_white">- Deploy AD campaigns &amp; influencer promotions<br/><br/>- Weekly animation content for socials &amp; adopt a TIGER<br/><br/>- Accumulate 1000 holders &amp; GIGA CHAD TYGA community<br/><br/>- Apply for CEX listings</p></div></div></div></div><div class="right-arrow-2 w-slider-arrow-left"><img data-w-id="4653d80f-87c1-8b2d-26ee-2b5cf3c6ef68" loading="lazy" alt="" src="./cdn.prod.website-files.com/67128392ef8c413a4ef1b76d/6713a443f404cf47157c84ea_bouton%20slider%20gauche.png" class="image-9"/></div><div class="right-arrow-2 w-slider-arrow-right"><img data-w-id="4653d80f-87c1-8b2d-26ee-2b5cf3c6ef6a" loading="lazy" alt="" src="./cdn.prod.website-files.com/67128392ef8c413a4ef1b76d/6713a1af9ba04f04d7d094c4_bouton%20slider.png" class="image-5"/></div><div class="slide-nav-2 w-slider-nav w-round w-num"></div></div><div class="spacer_roadmap2"></div></div><div class="column-5 w-col w-col-6 w-col-medium-6 w-col-small-6 w-col-tiny-tiny-stack"><img src="./cdn.prod.website-files.com/67128392ef8c413a4ef1b76d/6712b900790e0aad20a719e2_Rectangle-3.png" loading="lazy" sizes="100vw" srcset="./cdn.prod.website-files.com/67128392ef8c413a4ef1b76d/6712b900790e0aad20a719e2_Rectangle-3-p-500.png 500w, ./cdn.prod.website-files.com/67128392ef8c413a4ef1b76d/6712b900790e0aad20a719e2_Rectangle-3-p-800.png 800w, ./cdn.prod.website-files.com/67128392ef8c413a4ef1b76d/6712b900790e0aad20a719e2_Rectangle-3.png 939w" alt="" class="image-10"/></div></div></div><img src="./cdn.prod.website-files.com/67128392ef8c413a4ef1b76d/67140b1d5a1b5e5c06c6218d_buisson%20encore%20encore.png" loading="lazy" sizes="100vw" srcset="./cdn.prod.website-files.com/67128392ef8c413a4ef1b76d/67140b1d5a1b5e5c06c6218d_buisson%20encore%20encore-p-500.png 500w, ./cdn.prod.website-files.com/67128392ef8c413a4ef1b76d/67140b1d5a1b5e5c06c6218d_buisson%20encore%20encore-p-800.png 800w, ./cdn.prod.website-files.com/67128392ef8c413a4ef1b76d/67140b1d5a1b5e5c06c6218d_buisson%20encore%20encore-p-1080.png 1080w, ./cdn.prod.website-files.com/67128392ef8c413a4ef1b76d/67140b1d5a1b5e5c06c6218d_buisson%20encore%20encore-p-1600.png 1600w, ./cdn.prod.website-files.com/67128392ef8c413a4ef1b76d/67140b1d5a1b5e5c06c6218d_buisson%20encore%20encore.png 1920w" alt="" class="image-11"/></div></div></section><section class="roadmap-copy"><div class="bg2 bg3"><div class="wrapper_roadmap"><div class="div-block-2"><div class="columns-3 w-row"><div class="column-4 w-col w-col-6 w-col-medium-6 w-col-small-6 w-col-tiny-tiny-stack"><div data-delay="4000" data-animation="slide" class="slider-5 w-slider" data-autoplay="false" data-easing="ease" data-hide-arrows="true" data-disable-swipe="false" data-autoplay-limit="0" data-nav-spacing="3" data-duration="500" data-infinite="true"><div class="w-slider-mask"><div class="slide-10 w-slide"><div class="div-block-4"><h1 class="titre_white">STEP 1</h1><div class="spacer_roadmap"></div><p class="text_white">- Launch on PumpFun &amp; optimize socials/website <br/><br/>- Develop content creation video collage <br/><br/>- Accumulate 100 holders &amp; strong community<br/><br/>- Pay DEX &amp; live Q/A with developers</p></div></div><div class="w-slide"><div class="div-block-4"><h1 class="titre_white">STEP 2</h1><p class="text_white">- Continue content creation &amp; social media developments <br/><br/>- Apply for CMC &amp; CG listing<br/><br/>- Accumulate 300 holders &amp; CHAD community<br/><br/>- First animation &amp; live Q/A with developers</p></div></div><div class="w-slide"><div class="div-block-4"><h1 class="titre_white">STEP 3</h1><p class="text_white">- Deploy AD campaigns &amp; influencer promotions<br/><br/>- Weekly animation content for socials &amp; adopt a TIGER<br/><br/>- Accumulate 1000 holders &amp; GIGA CHAD TYGA community<br/><br/>- Apply for CEX listings</p></div></div></div><div class="right-arrow-2 w-slider-arrow-left"><img data-w-id="6df77f33-77c0-d7a4-5734-622ddd59864d" loading="lazy" alt="" src="./cdn.prod.website-files.com/67128392ef8c413a4ef1b76d/6713a443f404cf47157c84ea_bouton%20slider%20gauche.png" class="image-9"/></div><div class="right-arrow-2 w-slider-arrow-right"><img data-w-id="116bcdf6-cb2e-99dd-cd70-0781470c361b" loading="lazy" alt="" src="./cdn.prod.website-files.com/67128392ef8c413a4ef1b76d/6713a1af9ba04f04d7d094c4_bouton%20slider.png" class="image-5"/></div><div class="slide-nav-3 w-slider-nav w-round w-num"></div></div><div class="spacer_roadmap2"></div></div><div class="column-5 w-col w-col-6 w-col-medium-6 w-col-small-6 w-col-tiny-tiny-stack"><img src="./cdn.prod.website-files.com/67128392ef8c413a4ef1b76d/6712b900790e0aad20a719e2_Rectangle-3.png" loading="lazy" sizes="(max-width: 479px) 100vw, (max-width: 767px) 331.6000061035156px, (max-width: 991px) 44vw, (max-width: 1279px) 42vw, 43vw" srcset="./cdn.prod.website-files.com/67128392ef8c413a4ef1b76d/6712b900790e0aad20a719e2_Rectangle-3-p-500.png 500w, ./cdn.prod.website-files.com/67128392ef8c413a4ef1b76d/6712b900790e0aad20a719e2_Rectangle-3-p-800.png 800w, ./cdn.prod.website-files.com/67128392ef8c413a4ef1b76d/6712b900790e0aad20a719e2_Rectangle-3.png 939w" alt="" class="image-10"/></div></div></div><img src="./cdn.prod.website-files.com/67128392ef8c413a4ef1b76d/67140b1d5a1b5e5c06c6218d_buisson%20encore%20encore.png" loading="lazy" sizes="100vw" srcset="./cdn.prod.website-files.com/67128392ef8c413a4ef1b76d/67140b1d5a1b5e5c06c6218d_buisson%20encore%20encore-p-500.png 500w, ./cdn.prod.website-files.com/67128392ef8c413a4ef1b76d/67140b1d5a1b5e5c06c6218d_buisson%20encore%20encore-p-800.png 800w, ./cdn.prod.website-files.com/67128392ef8c413a4ef1b76d/67140b1d5a1b5e5c06c6218d_buisson%20encore%20encore-p-1080.png 1080w, ./cdn.prod.website-files.com/67128392ef8c413a4ef1b76d/67140b1d5a1b5e5c06c6218d_buisson%20encore%20encore-p-1600.png 1600w, ./cdn.prod.website-files.com/67128392ef8c413a4ef1b76d/67140b1d5a1b5e5c06c6218d_buisson%20encore%20encore.png 1920w" alt="" class="image-11"/></div></div></section><section class="roadmap-phone"><div class="bg_roadmap_phone"><div class="roadmap_phone_wrapper"><img src="./cdn.prod.website-files.com/67128392ef8c413a4ef1b76d/671412deebfffef68dcc95a9_tigre%2Bbuissons.png" loading="lazy" sizes="100vw" srcset="./cdn.prod.website-files.com/67128392ef8c413a4ef1b76d/671412deebfffef68dcc95a9_tigre%2Bbuissons-p-500.png 500w, ./cdn.prod.website-files.com/67128392ef8c413a4ef1b76d/671412deebfffef68dcc95a9_tigre%2Bbuissons-p-800.png 800w, ./cdn.prod.website-files.com/67128392ef8c413a4ef1b76d/671412deebfffef68dcc95a9_tigre%2Bbuissons-p-1080.png 1080w, ./cdn.prod.website-files.com/67128392ef8c413a4ef1b76d/671412deebfffef68dcc95a9_tigre%2Bbuissons.png 1297w" alt="" class="tigre_phone"/><div data-delay="4000" data-animation="slide" class="slider-2 w-slider" data-autoplay="false" data-easing="ease" data-hide-arrows="true" data-disable-swipe="false" data-autoplay-limit="0" data-nav-spacing="200" data-duration="500" data-infinite="false"><div class="mask-2 w-slider-mask"><div class="slide-2 w-slide"><div class="slider_wrapper"><div class="content_slider"><h1 class="titre_white">STEP 1</h1><div class="spacer_roadmap"></div><p class="text_white">- Launch on PumpFun &amp; optimize socials/website <br/><br/>- Develop content creation video collage <br/><br/>- Accumulate 100 holders &amp; strong community<br/><br/>- Pay DEX &amp; live Q/A with developers</p></div></div></div><div class="slide-4 w-slide"><div class="slider_wrapper"><div class="content_slider"><h1 class="titre_white">STEP 2</h1><div class="spacer_roadmap"></div><p class="text_white">- Continue content creation &amp; social media developments <br/><br/>- Apply for CMC &amp; CG listing<br/><br/>- Accumulate 300 holders &amp; CHAD community<br/><br/>- First animation &amp; live Q/A with developers</p></div></div></div><div class="slide-3 w-slide"><div class="slider_wrapper"><div class="content_slider"><h1 class="titre_white">STEP 3</h1><div class="spacer_roadmap"></div><p class="text_white">- Deploy AD campaigns &amp; influencer promotions<br/><br/>- Weekly animation content for socials &amp; adopt a TIGER<br/><br/>- Accumulate 1000 holders &amp; GIGA CHAD TYGA community<br/><br/>- Apply for CEX listings</p></div></div></div></div><div class="right-arrow-2 w-slider-arrow-left"><img data-w-id="82fa5e30-a3e7-4d81-45c4-95128d05b247" loading="lazy" alt="" src="./cdn.prod.website-files.com/67128392ef8c413a4ef1b76d/6713a443f404cf47157c84ea_bouton%20slider%20gauche.png" class="image-9"/></div><div class="right-arrow-2 w-slider-arrow-right"><img data-w-id="82fa5e30-a3e7-4d81-45c4-95128d05b249" loading="lazy" alt="" src="./cdn.prod.website-files.com/67128392ef8c413a4ef1b76d/6713a1af9ba04f04d7d094c4_bouton%20slider.png" class="image-5"/></div><div class="slide-nav-2 w-slider-nav w-round w-num"></div></div><img src="./cdn.prod.website-files.com/67128392ef8c413a4ef1b76d/67140b1d5a1b5e5c06c6218d_buisson%20encore%20encore.png" loading="lazy" sizes="100vw" srcset="./cdn.prod.website-files.com/67128392ef8c413a4ef1b76d/67140b1d5a1b5e5c06c6218d_buisson%20encore%20encore-p-500.png 500w, ./cdn.prod.website-files.com/67128392ef8c413a4ef1b76d/67140b1d5a1b5e5c06c6218d_buisson%20encore%20encore-p-800.png 800w, ./cdn.prod.website-files.com/67128392ef8c413a4ef1b76d/67140b1d5a1b5e5c06c6218d_buisson%20encore%20encore-p-1080.png 1080w, ./cdn.prod.website-files.com/67128392ef8c413a4ef1b76d/67140b1d5a1b5e5c06c6218d_buisson%20encore%20encore-p-1600.png 1600w, ./cdn.prod.website-files.com/67128392ef8c413a4ef1b76d/67140b1d5a1b5e5c06c6218d_buisson%20encore%20encore.png 1920w" alt="" class="image-14"/></div></div></section><section class="ghoj"><div class="bg4"></div></section><section class="tokenomics"><div class="bg5"><div class="tokenomics-content"><h1 class="heading">TYGANOMICS</h1><div class="spacer_tokenomics"></div><img src="./cdn.prod.website-files.com/67128392ef8c413a4ef1b76d/6713bc3ea5b3f6417b0ab1f1_tokenomics%20list.png" loading="lazy" data-w-id="aa31c0c7-e419-2f85-bfad-009f56eff400" sizes="(max-width: 1919px) 60vw, 1084px" alt="" srcset="./cdn.prod.website-files.com/67128392ef8c413a4ef1b76d/6713bc3ea5b3f6417b0ab1f1_tokenomics%20list-p-500.png 500w, ./cdn.prod.website-files.com/67128392ef8c413a4ef1b76d/6713bc3ea5b3f6417b0ab1f1_tokenomics%20list-p-800.png 800w, ./cdn.prod.website-files.com/67128392ef8c413a4ef1b76d/6713bc3ea5b3f6417b0ab1f1_tokenomics%20list-p-1080.png 1080w, ./cdn.prod.website-files.com/67128392ef8c413a4ef1b76d/6713bc3ea5b3f6417b0ab1f1_tokenomics%20list.png 1084w" class="image-12"/></div></div></section><section class="htb"><div class="htb_wrapper"><img src="./cdn.prod.website-files.com/67128392ef8c413a4ef1b76d/671418d5e6f594839d014948_HTB.png" loading="lazy" sizes="(max-width: 479px) 95vw, (max-width: 767px) 90vw, (max-width: 1919px) 80vw, 1261px" srcset="./cdn.prod.website-files.com/67128392ef8c413a4ef1b76d/671418d5e6f594839d014948_HTB-p-500.png 500w, ./cdn.prod.website-files.com/67128392ef8c413a4ef1b76d/671418d5e6f594839d014948_HTB-p-800.png 800w, ./cdn.prod.website-files.com/67128392ef8c413a4ef1b76d/671418d5e6f594839d014948_HTB.png 1261w" alt="" class="image-13"/></div></section><div class="w-embed"><style>
     /* Conteneur pour la pluie de billets */
     .rain-container {
         position: fixed;
